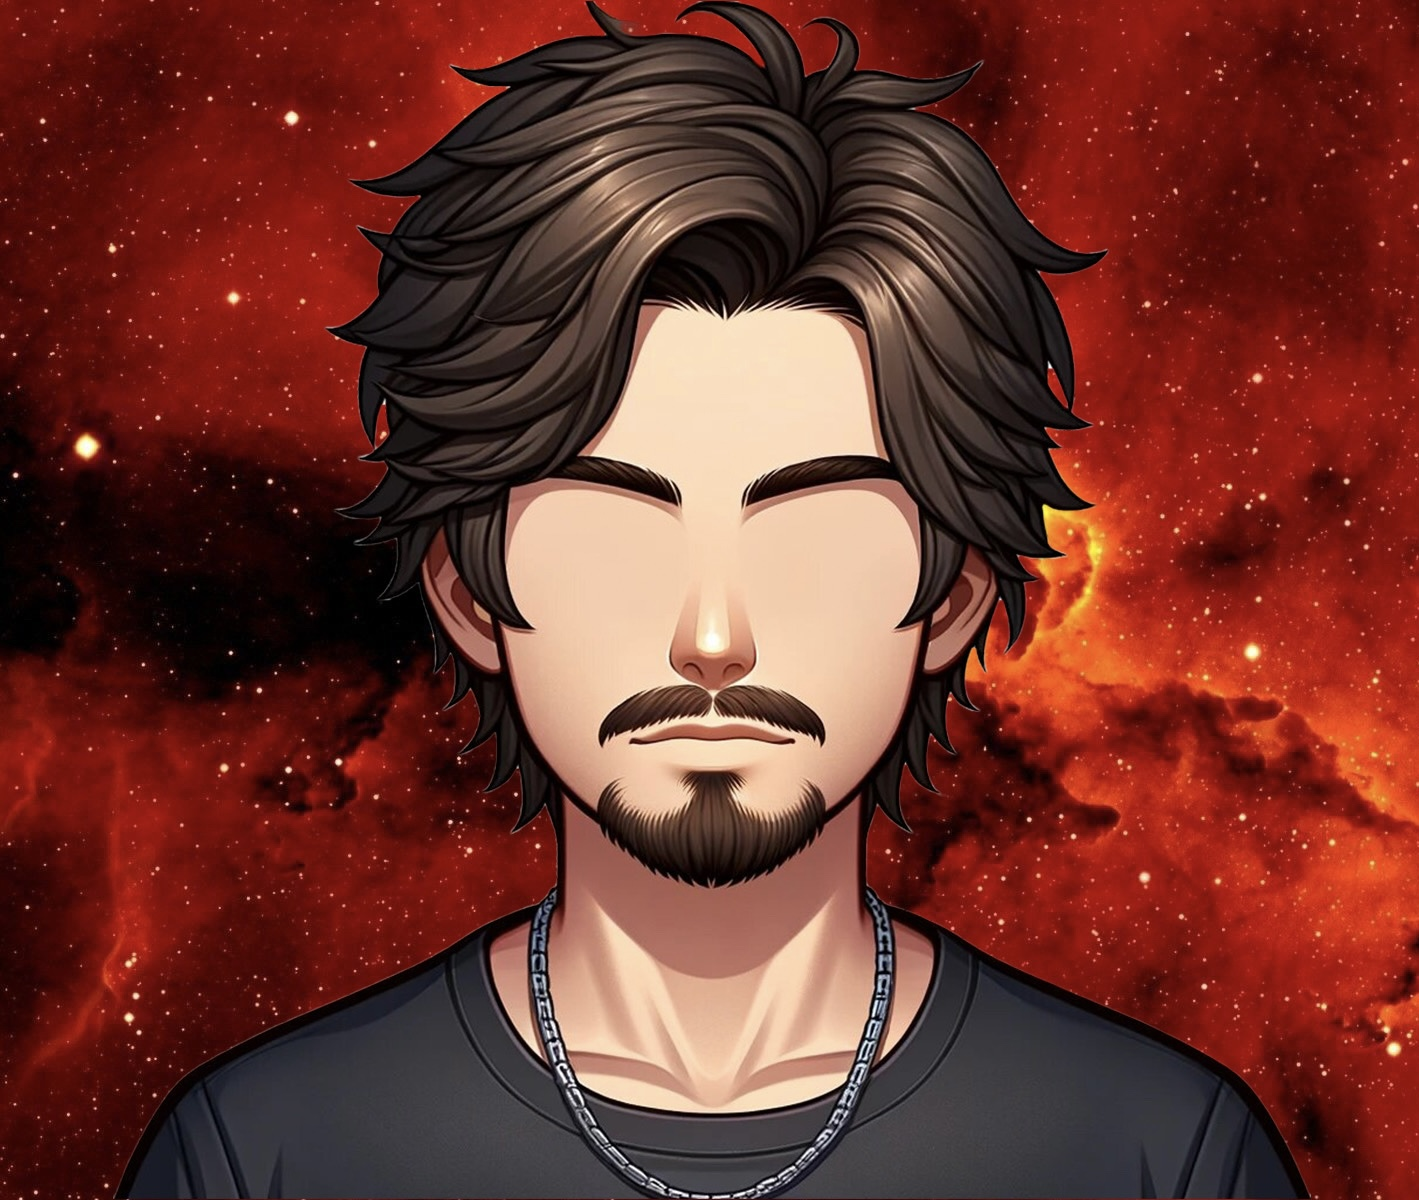
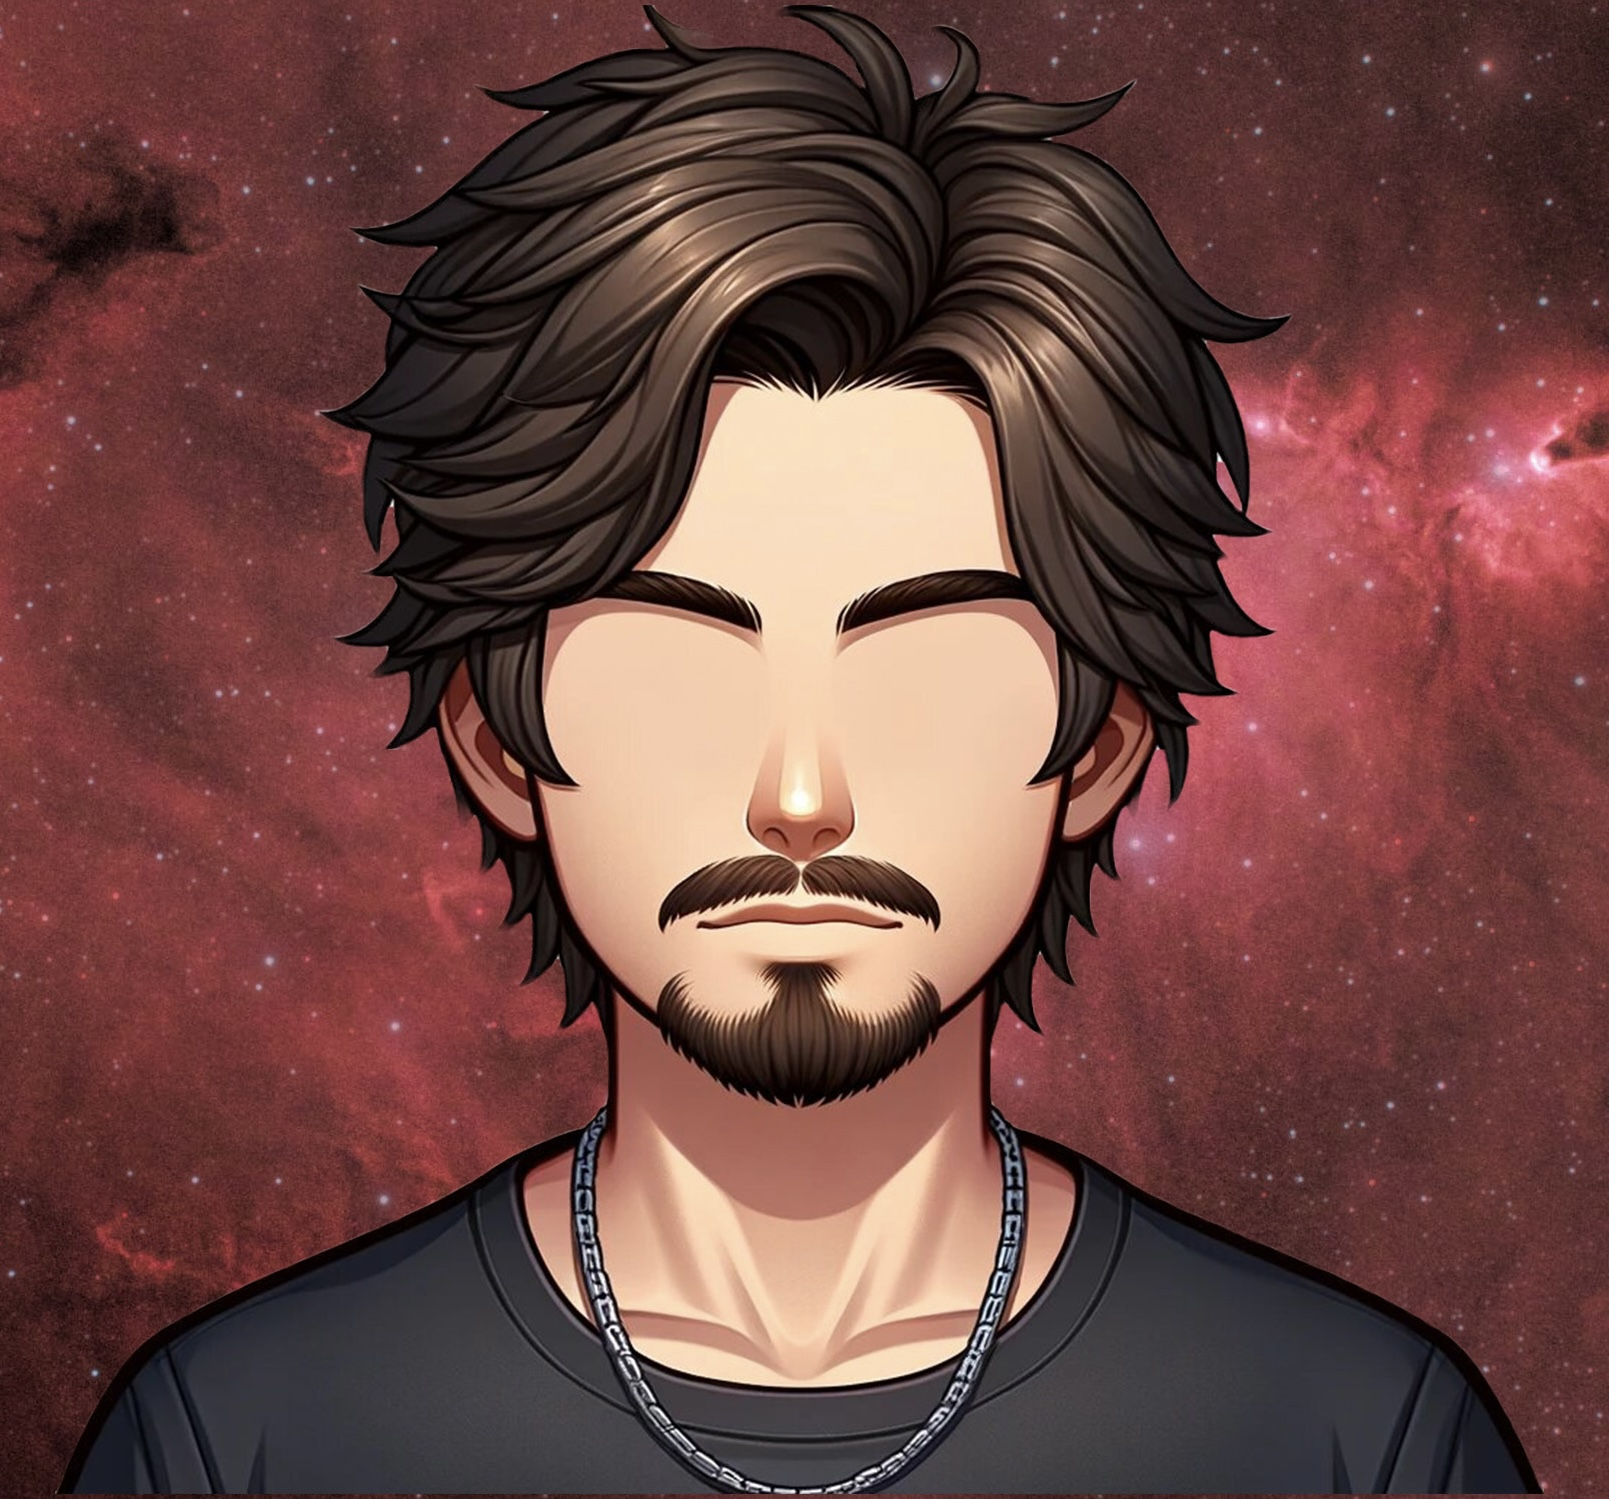
added royalty free backgrounds

diff --git a/about.html b/about.html
@@ -78,10 +78,10 @@
     <!--Background Image-->
     <picture class="cs-background">
         <!--Mobile Image-->
-        <source media="(max-width: 600px)" srcset="https://images.pexels.com/photos/73873/star-clusters-rosette-nebula-star-galaxies-73873.jpeg?auto=compress&cs=tinysrgb&w=1260&h=750&dpr=1">
+        <source media="(max-width: 600px)" srcset="https://images.pexels.com/photos/11340111/pexels-photo-11340111.jpeg?auto=compress&cs=tinysrgb&w=1260&h=750&dpr=1">
         <!--Tablet and above Image-->
-        <source media="(min-width: 601px)" srcset="https://images.pexels.com/photos/73873/star-clusters-rosette-nebula-star-galaxies-73873.jpeg?auto=compress&cs=tinysrgb&w=1260&h=750&dpr=1">
-        <img loading="lazy" decoding="async" src="https://images.pexels.com/photos/73873/star-clusters-rosette-nebula-star-galaxies-73873.jpeg?auto=compress&cs=tinysrgb&w=1260&h=750&dpr=1" alt="code" width="1280" height="568" aria-hidden="true">
+        <source media="(min-width: 601px)" srcset="https://images.pexels.com/photos/11340111/pexels-photo-11340111.jpeg?auto=compress&cs=tinysrgb&w=1260&h=750&dpr=1">
+        <img loading="lazy" decoding="async" src="https://images.pexels.com/photos/11340111/pexels-photo-11340111.jpeg?auto=compress&cs=tinysrgb&w=1260&h=750&dpr=1" alt="code" width="1280" height="568" aria-hidden="true">
     </picture>
 </div>
 <!-- ============================================ -->
@@ -97,7 +97,7 @@
         <div class="cs-content">
             <h2>About Me</h2>
             <p>
-                My name is Noah. I am the sole-operator of DuskDev. I started coding with HTML, CSS, and JS when I was 18. At the start of my journey my goal was to be a part of a bigger company, dabbling in react.js, and just wanted a job as a web developer. But I realized the freedom I could have working for myself, and the opportunity to do things my way, being able to help small businesses without a big corp sucking work out of developers for little pay, while charging clients out the ass for standard websites, while the big guys fill their pockets. By starting my LLC, I run my company how I please, competing with the bigger companies at prices that they can't beat, with quality work that matches or typically exceeds them.
+                My name is Noah. I am the sole-operator of DuskDev. I started coding with HTML, CSS, and JS when I was 18. At the start of my journey my goal was to be a part of a bigger company, dabbling in react.js, and just wanted a job as a web developer. But I realized the freedom I could have working for myself, and the opportunity to do things my way, being able to help small businesses without a big corp sucking work out of developers for little pay, while charging clients crazy amount of money for standard websites, while the big guys fill their pockets. By starting my LLC, I run my company how I please, competing with the bigger companies at prices that they can't beat, with quality work that matches or typically exceeds them.
             </p>
             <h2>Quality over quantity</h2>
             <p>

diff --git a/privacy.html b/privacy.html
@@ -78,10 +78,10 @@
     <!--Background Image-->
     <picture class="cs-background">
         <!--Mobile Image-->
-        <source media="(max-width: 600px)" srcset="https://images.pexels.com/photos/73873/star-clusters-rosette-nebula-star-galaxies-73873.jpeg?auto=compress&cs=tinysrgb&w=1260&h=750&dpr=1">
+        <source media="(max-width: 600px)" srcset="https://images.pexels.com/photos/11340111/pexels-photo-11340111.jpeg?auto=compress&cs=tinysrgb&w=1260&h=750&dpr=1">
         <!--Tablet and above Image-->
-        <source media="(min-width: 601px)" srcset="https://images.pexels.com/photos/73873/star-clusters-rosette-nebula-star-galaxies-73873.jpeg?auto=compress&cs=tinysrgb&w=1260&h=750&dpr=1">
-        <img loading="lazy" decoding="async" src="https://images.pexels.com/photos/73873/star-clusters-rosette-nebula-star-galaxies-73873.jpeg?auto=compress&cs=tinysrgb&w=1260&h=750&dpr=1" alt="code" width="1280" height="568" aria-hidden="true">
+        <source media="(min-width: 601px)" srcset="https://images.pexels.com/photos/11340111/pexels-photo-11340111.jpeg?auto=compress&cs=tinysrgb&w=1260&h=750&dpr=1">
+        <img loading="lazy" decoding="async" src="https://images.pexels.com/photos/11340111/pexels-photo-11340111.jpeg?auto=compress&cs=tinysrgb&w=1260&h=750&dpr=1" alt="code" width="1280" height="568" aria-hidden="true">
     </picture>
 </div>
 <!-- ============================================ -->

diff --git a/services.html b/services.html
@@ -78,10 +78,10 @@
     <!--Background Image-->
     <picture class="cs-background">
         <!--Mobile Image-->
-        <source media="(max-width: 600px)" srcset="https://images.pexels.com/photos/73873/star-clusters-rosette-nebula-star-galaxies-73873.jpeg?auto=compress&cs=tinysrgb&w=1260&h=750&dpr=1">
+        <source media="(max-width: 600px)" srcset="https://images.pexels.com/photos/11340111/pexels-photo-11340111.jpeg?auto=compress&cs=tinysrgb&w=1260&h=750&dpr=1">
         <!--Tablet and above Image-->
-        <source media="(min-width: 601px)" srcset="https://images.pexels.com/photos/73873/star-clusters-rosette-nebula-star-galaxies-73873.jpeg?auto=compress&cs=tinysrgb&w=1260&h=750&dpr=1">
-        <img loading="lazy" decoding="async" src="https://images.pexels.com/photos/73873/star-clusters-rosette-nebula-star-galaxies-73873.jpeg?auto=compress&cs=tinysrgb&w=1260&h=750&dpr=1" alt="code" width="1280" height="568" aria-hidden="true">
+        <source media="(min-width: 601px)" srcset="https://images.pexels.com/photos/11340111/pexels-photo-11340111.jpeg?auto=compress&cs=tinysrgb&w=1260&h=750&dpr=1">
+        <img loading="lazy" decoding="async" src="https://images.pexels.com/photos/11340111/pexels-photo-11340111.jpeg?auto=compress&cs=tinysrgb&w=1260&h=750&dpr=1" alt="code" width="1280" height="568" aria-hidden="true">
     </picture>
 </div>
 <!-- ============================================ -->

diff --git a/terms.html b/terms.html
@@ -78,10 +78,10 @@
     <!--Background Image-->
     <picture class="cs-background">
         <!--Mobile Image-->
-        <source media="(max-width: 600px)" srcset="https://images.pexels.com/photos/73873/star-clusters-rosette-nebula-star-galaxies-73873.jpeg?auto=compress&cs=tinysrgb&w=1260&h=750&dpr=1">
+        <source media="(max-width: 600px)" srcset="https://images.pexels.com/photos/11340111/pexels-photo-11340111.jpeg?auto=compress&cs=tinysrgb&w=1260&h=750&dpr=1">
         <!--Tablet and above Image-->
-        <source media="(min-width: 601px)" srcset="https://images.pexels.com/photos/73873/star-clusters-rosette-nebula-star-galaxies-73873.jpeg?auto=compress&cs=tinysrgb&w=1260&h=750&dpr=1">
-        <img loading="lazy" decoding="async" src="https://images.pexels.com/photos/73873/star-clusters-rosette-nebula-star-galaxies-73873.jpeg?auto=compress&cs=tinysrgb&w=1260&h=750&dpr=1" alt="code" width="1280" height="568" aria-hidden="true">
+        <source media="(min-width: 601px)" srcset="https://images.pexels.com/photos/11340111/pexels-photo-11340111.jpeg?auto=compress&cs=tinysrgb&w=1260&h=750&dpr=1">
+        <img loading="lazy" decoding="async" src="https://images.pexels.com/photos/11340111/pexels-photo-11340111.jpeg?auto=compress&cs=tinysrgb&w=1260&h=750&dpr=1" alt="code" width="1280" height="568" aria-hidden="true">
     </picture>
 </div>
 <!-- ============================================ -->

diff --git a/contact.html b/contact.html
@@ -78,10 +78,10 @@
     <!--Background Image-->
     <picture class="cs-background">
         <!--Mobile Image-->
-        <source media="(max-width: 600px)" srcset="https://images.pexels.com/photos/73873/star-clusters-rosette-nebula-star-galaxies-73873.jpeg?auto=compress&cs=tinysrgb&w=1260&h=750&dpr=1">
+        <source media="(max-width: 600px)" srcset="https://images.pexels.com/photos/11340111/pexels-photo-11340111.jpeg?auto=compress&cs=tinysrgb&w=1260&h=750&dpr=1">
         <!--Tablet and above Image-->
-        <source media="(min-width: 601px)" srcset="https://images.pexels.com/photos/73873/star-clusters-rosette-nebula-star-galaxies-73873.jpeg?auto=compress&cs=tinysrgb&w=1260&h=750&dpr=1">
-        <img loading="lazy" decoding="async" src="https://images.pexels.com/photos/73873/star-clusters-rosette-nebula-star-galaxies-73873.jpeg?auto=compress&cs=tinysrgb&w=1260&h=750&dpr=1" alt="code" width="1280" height="568" aria-hidden="true">
+        <source media="(min-width: 601px)" srcset="https://images.pexels.com/photos/11340111/pexels-photo-11340111.jpeg?auto=compress&cs=tinysrgb&w=1260&h=750&dpr=1">
+        <img loading="lazy" decoding="async" src="https://images.pexels.com/photos/11340111/pexels-photo-11340111.jpeg?auto=compress&cs=tinysrgb&w=1260&h=750&dpr=1" alt="code" width="1280" height="568" aria-hidden="true">
     </picture>
 </div>
 

diff --git a/faq.html b/faq.html
@@ -78,10 +78,10 @@
     <!--Background Image-->
     <picture class="cs-background">
         <!--Mobile Image-->
-        <source media="(max-width: 600px)" srcset="https://images.pexels.com/photos/73873/star-clusters-rosette-nebula-star-galaxies-73873.jpeg?auto=compress&cs=tinysrgb&w=1260&h=750&dpr=1">
+        <source media="(max-width: 600px)" srcset="https://images.pexels.com/photos/11340111/pexels-photo-11340111.jpeg?auto=compress&cs=tinysrgb&w=1260&h=750&dpr=1">
         <!--Tablet and above Image-->
-        <source media="(min-width: 601px)" srcset="https://images.pexels.com/photos/73873/star-clusters-rosette-nebula-star-galaxies-73873.jpeg?auto=compress&cs=tinysrgb&w=1260&h=750&dpr=1">
-        <img loading="lazy" decoding="async" src="https://images.pexels.com/photos/73873/star-clusters-rosette-nebula-star-galaxies-73873.jpeg?auto=compress&cs=tinysrgb&w=1260&h=750&dpr=1" alt="code" width="1280" height="568" aria-hidden="true">
+        <source media="(min-width: 601px)" srcset="https://images.pexels.com/photos/11340111/pexels-photo-11340111.jpeg?auto=compress&cs=tinysrgb&w=1260&h=750&dpr=1">
+        <img loading="lazy" decoding="async" src="https://images.pexels.com/photos/11340111/pexels-photo-11340111.jpeg?auto=compress&cs=tinysrgb&w=1260&h=750&dpr=1" alt="code" width="1280" height="568" aria-hidden="true">
     </picture>
 </div>
 

diff --git a/index.html b/index.html
@@ -5,7 +5,7 @@
     <meta http-equiv="X-UA-Compatible" content="IE=edge">
     <meta name="viewport" content="width=device-width, initial-scale=1.0">
     <title>DuskDev</title>
-    <meta name="description" content="DuskDev is a web-development company focused on providing top quality websites at affordable prices compared to bigger companies. As a solo operated company, you are talking directly to the developer, so the websites can be tailored directly to your wants and needs. Ready for your own website? Contact me to get started.">
+    <meta name="description" content="Unlock the full potential of your online presence with DuskDev – Your premier web development partner. Transforming ideas into dynamic websites. ">
     <link rel="stylesheet" href="./styles/styles.css">
     <link rel="apple-touch-icon" sizes="180x180" href="./images/favicon_io (1)/apple-touch-icon.png">
     <link rel="icon" type="image/png" sizes="32x32" href="./images/favicon_io (1)/favicon-32x32.png">
